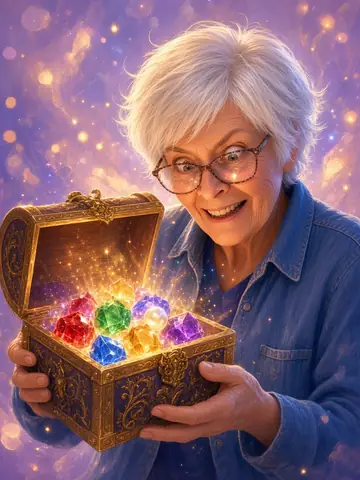
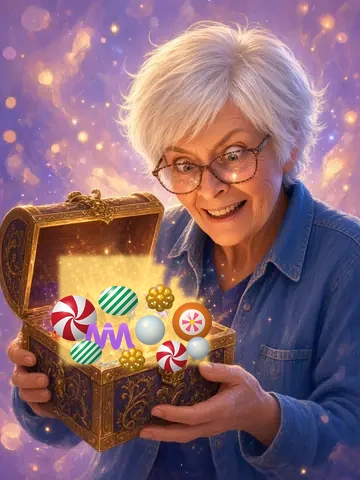
Refresh Candy Quest with hard candies
Replace the Test Arcade copy with the latest review head. The pieces are hard candies, and the save key stays pa-test-hcq_save_v2.

Changed region(s): [[0.1222, 0.5312, 0.6111, 0.7812]]

diff --git a/test-arcade/games/helenes-candy-quest/js/game.js b/test-arcade/games/helenes-candy-quest/js/game.js
@@ -1,11 +1,11 @@
-/* Helene's Candy Quest: a match-3. The pieces are the jewels from Helene's chest. */
+/* Helene's Candy Quest: a match-3. The pieces are old-fashioned hard candies from Helene's chest. */
 'use strict';
 const $=id=>document.getElementById(id);
 const LEVELS=window.CANDY_LEVELS;
 const Q=new URLSearchParams(location.search);
 const FAST=Q.get('fast')==='1';
 const SPEED=FAST?0.12:1;
-const CNAME=['Ruby Heart','Blue Drop','Green Square','Gold Diamond','Purple Point','Pearl'];
+const CNAME=['Peppermint Swirl','Striped Pillow','Raspberry Drop','Ribbon Candy','Cut-Rock Flower','Sour Ball'];
 const SK='pa-test-hcq_save_v2';
 let SV; try{SV=JSON.parse(localStorage.getItem(SK))||{}}catch(e){SV={}}
 SV=Object.assign({stars:{}, best:{}, music:1, sound:1}, SV);
@@ -15,7 +15,8 @@ function soundMuted(){return !SV.sound}
 var state='title';
 
 const cv=$('cv'), ctx=cv.getContext('2d');
-const gemsImg=new Image(); gemsImg.onload=()=>{if(B){draw(); kick()}}; gemsImg.src='art/gems.webp';
+const candyImg=new Image(); candyImg.onload=()=>{if(B){draw(); kick()}}; candyImg.src='art/candies.webp';
+const SRC=160;
 let playId=0, G=null, B=null, busy=false, sel=null, hint=null, cursor={r:3,c:3,on:false};
 let CELL=48, boardPx=384, dpr=1, camShake=0;
 const dying=[], tweens=[], floaters=[];
@@ -197,22 +198,19 @@ function round(x,y,w,h,r){ctx.beginPath(); ctx.moveTo(x+r,y); ctx.arcTo(x+w,y,x+
 function strokeRound(x,y,w,h,r){round(x,y,w,h,r); ctx.stroke()}
 function drawGem(g, c){
   const sc=g.sc==null?1:g.sc, al=g.al==null?1:g.al;
-  if(sc<0.02||al<0.02||!gemsImg.complete||!gemsImg.naturalWidth) return;
-  const idx=g.s==='x'?7:(g.c>=0?g.c:0);
-  const x=(g.x+0.5)*c, y=(g.y+0.5)*c, d=c*0.9*sc;
+  if(sc<0.02||al<0.02||!candyImg.complete||!candyImg.naturalWidth) return;
+  let col=g.c>=0?g.c:0, row=0, rot=0;
+  if(g.s==='x'){col=7; row=0;}
+  else if(g.s==='h'){row=1;}
+  else if(g.s==='v'){row=1; rot=Math.PI/2;}
+  else if(g.s==='b'){row=2;}
+  const x=(g.x+0.5)*c, y=(g.y+0.5)*c, d=c*0.92*sc;
+  ctx.save();
   ctx.globalAlpha=al;
-  ctx.drawImage(gemsImg, idx*112, 0, 112, 112, x-d/2, y-d/2, d, d);
-  if(g.s==='h'||g.s==='v'){
-    ctx.strokeStyle='rgba(255,255,255,.95)'; ctx.lineWidth=Math.max(2, c*0.06);
-    ctx.beginPath();
-    if(g.s==='h'){ctx.moveTo(x-d*0.28,y); ctx.lineTo(x+d*0.28,y)}
-    else {ctx.moveTo(x,y-d*0.28); ctx.lineTo(x,y+d*0.28)}
-    ctx.stroke();
-  }else if(g.s==='b'){
-    ctx.strokeStyle='rgba(255,220,90,.95)'; ctx.lineWidth=Math.max(2, c*0.07);
-    ctx.beginPath(); ctx.arc(x,y,d*0.42,0,6.3); ctx.stroke();
-  }
-  ctx.globalAlpha=1;
+  ctx.translate(x, y);
+  if(rot) ctx.rotate(rot);
+  ctx.drawImage(candyImg, col*SRC, row*SRC, SRC, SRC, -d/2, -d/2, d, d);
+  ctx.restore();
 }
 function floater(x,y,t,col){floaters.push({x,y,t,col,life:0,max:800}); kick()}
 
@@ -398,7 +396,7 @@ function howTo(back){
   card('<h2>How to play</h2><ul>'+
     '<li><b>Swipe</b> a candy up, down, left, or right. Or <b>tap</b> one, then tap the one beside it.</li>'+
     '<li>Line up <b>3 or more</b> of the same candy from Helene\'s chest. They clear, the ones above fall, and new candies pour in.</li>'+
-    '<li><b>Match 4</b> makes a <b>Ribbon</b>. It clears a whole row or column. An <b>L or T</b> makes a <b>Wrapper</b>, which clears a square. <b>Match 5</b> makes a <b>Chest Star</b>. Swap it to clear one color.</li>'+
+    '<li><b>Match 4</b> makes a <b>Striped Stick</b>. It clears a whole row or column. An <b>L or T</b> makes a <b>Wrapped Candy</b>, which clears a square. <b>Match 5</b> makes a <b>Candy Dish</b>. Swap it to clear one flavor.</li>'+
     '<li>Each level has a goal and a limited number of moves. Leftover moves mean more stars.</li>'+
     '<li>A swap that does not match bounces back and does not spend a move.</li>'+
     '<li>⌨ Arrows move the gold box. Space or Enter swaps. P pauses. M is sound.</li>'+

diff --git a/test-arcade/games/helenes-candy-quest/index.html b/test-arcade/games/helenes-candy-quest/index.html
@@ -38,7 +38,7 @@ body[data-mode="play"] #hud,body[data-mode="pause"] #hud{display:flex}
 #gTxt{position:relative;z-index:1;font-size:15px;font-weight:800;line-height:28px;padding:0 8px;white-space:nowrap}
 .need{display:inline-flex;align-items:center;gap:3px;margin-right:8px}
 .need.done{opacity:.7}
-.gi{display:inline-block;width:24px;height:24px;background:url(art/gems.webp) 0 0/800% 100% no-repeat;vertical-align:middle}
+.gi{display:inline-block;width:24px;height:24px;background:url(art/candies.webp) 0 0/800% 300% no-repeat;vertical-align:middle}
 #btnPause,#bHint{width:48px;height:48px;border-radius:16px;border:3px solid #fff;background:#6a2a98;color:#fff;font-size:20px;flex:0 0 auto}
 #bubble{display:none;position:absolute;z-index:4;left:12px;right:12px;bottom:calc(8px + env(safe-area-inset-bottom));margin:0 auto;max-width:420px;padding:8px 12px;border-radius:16px;background:#fffaf0;border:3px solid var(--gold);color:#4a1767;font-weight:800;font-size:18px;text-align:center;pointer-events:none}
 body.land #bubble{left:auto;right:12px;width:min(320px,34vw);bottom:12px}
@@ -96,7 +96,7 @@ body.land #hud{flex-direction:column;align-items:stretch}
 <div id="bg"></div>
 <div id="boardWrap"><canvas id="cv" width="320" height="320" aria-label="Candy board. Swipe to swap two candies."></canvas></div>
 <header id="hud">
-  <img id="host" src="art/helene.webp" alt="Helene holding her treasure chest full of colorful candies">
+  <img id="host" src="art/helene.webp" alt="Helene holding her chest overflowing with old-fashioned hard candies">
   <div id="hudMain">
     <div id="lvlName">Level 1</div>
     <div class="stats">
@@ -111,7 +111,7 @@ body.land #hud{flex-direction:column;align-items:stretch}
 <p id="bubble" role="status"></p>
 <section id="title" class="scr">
   <div class="panel">
-    <img class="hero" src="art/helene.webp" alt="Helene, smiling, holding a chest of red, blue, green, gold, and purple candies">
+    <img class="hero" src="art/helene.webp" alt="Helene, smiling, holding a chest overflowing with peppermints, pillows, ribbons, and sour balls">
     <h1>Helene's<br>Candy Quest</h1>
     <p class="tag">Match the candies from her chest.</p>
     <button id="bPlay" class="btn gold" type="button"><span>▶ PLAY</span><small id="bPlaySub">Chest Opening</small></button>
@@ -140,13 +140,13 @@ body.land #hud{flex-direction:column;align-items:stretch}
 <script>
 window.PALB_CONFIG={backend:'firestore', firestore:{projectId:'peters-arcade-3ecb5', apiKey:'AIzaSyDF1az3jKEZFcT7FP5j1FzjslDxMGL2VmE'}};
 </script>
-<script src="js/logic.js?v=2"></script>
-<script src="js/levels.js?v=2"></script>
-<script src="js/audio.js?v=2"></script>
-<script src="js/game.js?v=2"></script>
-<script src="js/gamepad.js?v=2"></script>
-<script src="js/pad.js?v=2"></script>
-<script src="js/palb.js?v=2"></script>
+<script src="js/logic.js?v=3"></script>
+<script src="js/levels.js?v=3"></script>
+<script src="js/audio.js?v=3"></script>
+<script src="js/game.js?v=3"></script>
+<script src="js/gamepad.js?v=3"></script>
+<script src="js/pad.js?v=3"></script>
+<script src="js/palb.js?v=3"></script>
 <script>
 PALB.init({
   game:'helenes-candy-quest',

diff --git a/test-arcade/games/helenes-candy-quest/js/logic.js b/test-arcade/games/helenes-candy-quest/js/logic.js
@@ -1,5 +1,5 @@
 /* ===== Helene's Treasure Chest: rules engine (pure, no drawing) ===== */
-var N=8;/* board size, visible to the game page */let NC=6,GID=1,SPC=0;/* SPC = chance a falling-in gem arrives as a Line gem (Classic/Zen only) */
+var N=8;/* board size, visible to the game page */let NC=6,GID=1,SPC=0;/* SPC = chance a falling candy arrives already a striped stick */
 function K(r,c){return r*N+c}function KR(k){return Math.floor(k/N)}function KC(k){return k%N}
 function setNC(n){NC=n}function setSPC(p){SPC=p}
 function rndColor(){return Math.floor(Math.random()*NC)}
@@ -26,7 +26,7 @@ function moveValid(B,a,b){const A=B[a.r][a.c],Bb=B[b.r][b.c];if(!A||!Bb)return f
 function allMoves(B){const m=[];for(let r=0;r<N;r++)for(let c=0;c<N;c++){if(c<N-1&&moveValid(B,{r,c},{r,c:c+1}))m.push([{r,c},{r,c:c+1}]);if(r<N-1&&moveValid(B,{r,c},{r:r+1,c}))m.push([{r,c},{r:r+1,c}])}return m}
 function findMove(B){const m=allMoves(B);return m.length?m[Math.floor(Math.random()*m.length)]:null}
 function mostCommon(B,skip){const n=new Array(NC).fill(0);for(let r=0;r<N;r++)for(let c=0;c<N;c++){const g=B[r][c];if(g&&g.c>=0&&!(skip&&skip.has(K(r,c))))n[g.c]++}let b=0;for(let i=1;i<NC;i++)if(n[i]>n[b])b=i;return b}
-/* specials: h = clears its row, v = clears its column, b = 3x3 burst, x = Treasure Star (clears every gem of one colour) */
+/* specials: h/v = striped stick (row or column), b = wrapped candy (3x3), x = candy dish (one flavor) */
 function expand(B,clear,forced){const fx=[],done=new Set(),q=[...clear];
  while(q.length){const k=q.shift();if(done.has(k))continue;done.add(k);const r=KR(k),c=KC(k),g=B[r][c];if(!g||!g.s||g.used)continue;g.used=true;const add=[];
   if(g.s==='h'){for(let x=0;x<N;x++)add.push(K(r,x));fx.push({t:'h',r,c,col:g.c})}
@@ -57,7 +57,7 @@ function applyGravity(B){const moves=[];for(let c=0;c<N;c++){let w=N-1;for(let r
 function shuffleBoard(B){const all=[];for(let r=0;r<N;r++)for(let c=0;c<N;c++)all.push(B[r][c]);
  for(let t=0;t<300;t++){for(let i=all.length-1;i>0;i--){const j=Math.floor(Math.random()*(i+1));[all[i],all[j]]=[all[j],all[i]]}
   for(let i=0;i<all.length;i++)B[KR(i)][KC(i)]=all[i];if(boardOK(B))return true}
- for(let r=0;r<N;r++)for(let c=0;c<N;c++)if(!B[r][c].s)B[r][c].c=rndColor();/* fallback: recolour plain gems */
+ for(let r=0;r<N;r++)for(let c=0;c<N;c++)if(!B[r][c].s)B[r][c].c=rndColor();/* fallback: recolour plain candies */
  for(let t=0;t<300&&!boardOK(B);t++){const r=Math.floor(Math.random()*N),c=Math.floor(Math.random()*N);if(!B[r][c].s)B[r][c].c=rndColor()}return boardOK(B)}
 function serial(B){return B.map(row=>row.map(g=>[g.c,g.s||0]))}
 function unserial(S){return S.map((row,r)=>row.map((v,c)=>{const g=mk(v[0],v[1]||0);g.x=c;g.y=r;return g}))}

diff --git a/test-arcade/games/helenes-candy-quest/sw.js b/test-arcade/games/helenes-candy-quest/sw.js
@@ -1,7 +1,7 @@
 /* test-arcade: cache name starts with pa-test- and only those caches are deleted. Requests outside this folder are not intercepted. */
 /* auto-update: HTML/JS/CSS/JSON always revalidated with the server (no stale copies); cache is the offline fallback */
 const __NC=r=>{try{const u=new URL(r.url);return u.origin==location.origin&&(r.mode=='navigate'||/(\/|\.html?|\.m?js|\.css|\.json)$/.test(u.pathname))?{cache:'no-cache'}:{}}catch(e){return {}}};
-const P='pa-test-helenes-candy-quest-',V=P+'v2',FILES=['./','index.html','manifest.json','icon-192.png','icon-512.png','cover.png','js/logic.js?v=2','js/levels.js?v=2','js/audio.js?v=2','js/game.js?v=2','js/gamepad.js?v=2','js/pad.js?v=2','js/palb.js?v=2','art/gems.webp','art/helene-face.png','art/helene.jpg','art/helene.webp','art/face.webp'];
+const P='pa-test-helenes-candy-quest-',V=P+'v3',FILES=['./','index.html','manifest.json','icon-192.png','icon-512.png','cover.png','js/logic.js?v=3','js/levels.js?v=3','js/audio.js?v=3','js/game.js?v=3','js/gamepad.js?v=3','js/pad.js?v=3','js/palb.js?v=3','art/candies.webp','art/helene-face.png','art/helene.jpg','art/helene.webp','art/face.webp'];
 self.addEventListener('install',e=>{e.waitUntil(caches.open(V).then(c=>c.addAll(FILES)));self.skipWaiting()});
 self.addEventListener('activate',e=>{e.waitUntil(caches.keys().then(k=>Promise.all(k.filter(n=>n!=V&&n.startsWith(P)).map(n=>caches.delete(n)))).then(()=>self.clients.claim()))});
 self.addEventListener('fetch',e=>{if(!new URL(e.request.url).href.startsWith(self.registration.scope))return;if(e.request.method!='GET'||new URL(e.request.url).origin!==location.origin)return;e.respondWith(fetch(e.request,__NC(e.request)).then(r=>{if(r.ok){const cp=r.clone();caches.open(V).then(c=>c.put(e.request,cp))}return r}).catch(()=>caches.open(V).then(c=>c.match(e.request,{ignoreSearch:true}).then(r=>r||(e.request.mode=='navigate'?c.match('./'):undefined)))))});

diff --git a/test-arcade/games/helenes-candy-quest/js/levels.js b/test-arcade/games/helenes-candy-quest/js/levels.js
@@ -1,18 +1,18 @@
-/* 18 match-3 lands. Pieces are the jewels from Helene's chest.
+/* 18 match-3 lands. Pieces are old-fashioned hard candies.
    Goals get bigger and moves get tighter as the number climbs. */
 (function(root){
 'use strict';
 const NAMES = [
-  'Chest Opening','Ruby Hearts','Blue Drops','Garden Greens','Golden Squares',
-  'Purple Points','Pearl Shine','Sweet Mix','Ribbon Lesson','Two Colors',
-  'Starlight','Deep Chest','Color Shower',"Helene's Pick",'Wrapper Day',
-  'Busy Board','Almost Full','The Crown Chest'
+  'Candy Dish','Peppermint Swirls','Pillow Mints','Raspberry Drops','Cut Rock',
+  'Ribbon Twists','Sour Balls','Sweet Mix','Striped Sticks','Two Flavors',
+  'Candy Dish Bomb','Deep in the Tin','Color Shower',"Helene's Pick",'Wrapped Sweets',
+  'Busy Dish','Almost Full','The Full Tin'
 ];
 const INTRO = [
   'Swipe two candies that touch. Make a line of 3 or more!',
-  'Fill the score. Match 4 for a Ribbon, 5 for a Chest Star.',
-  'Gather the candies shown up top. They fall from my chest.',
-  'An L or a T makes a Wrapper. It clears a little square.',
+  'Fill the dish. Match 4 for a Striped Stick, 5 for a Candy Dish.',
+  'Gather the candies shown up top. They pour from my chest.',
+  'An L or a T makes a Wrapped Candy. It clears a little square.',
   'Take your time. Invalid swaps bounce back and cost nothing.'
 ];
 function make(){

diff --git a/test-arcade/games/helenes-candy-quest/README.md b/test-arcade/games/helenes-candy-quest/README.md
@@ -1,9 +1,11 @@
 # Helene's Candy Quest
 
-A match-3 beside [Helene's Treasure Chest](https://ploug76.github.io/helenes-treasure-chest/) and [Volume 2](https://ploug76.github.io/helenes-treasure-chest-vol-2/). Those games are not changed.
+A match-3 beside Helene's Treasure Chest and Volume 2. Those games are not changed.
 
-The pieces are the same jewels Helene holds in her chest. Swipe or tap to swap neighbors. Lines of 3 or more clear, candies fall, and cascades count. Match 4 makes a Ribbon, an L or T makes a Wrapper, and match 5 makes a Chest Star.
+The pieces are old-fashioned hard candies from Helene's chest: a red-and-white peppermint swirl, a green striped pillow, a yellow raspberry drop, a purple ribbon, an orange cut-rock flower, and a blue sour ball.
 
-18 levels, with a goal and a move limit on each. Stars and best scores stay on this device (`hcq_save_v2`). A finished quest can post to the shared leaderboard (`helenes-candy-quest__quest`).
+Swipe or tap to swap neighbors. Lines of 3 or more clear. Match 4 makes a Striped Stick, an L or T makes a Wrapped Candy, and match 5 makes a Candy Dish.
+
+18 levels, each with a goal and a move limit. Stars and best scores stay on this device (`hcq_save_v2`). A finished quest can post to the shared leaderboard (`helenes-candy-quest__quest`).
 
 Open `index.html`. On a phone, swipe the board. Arrows and Space work on a keyboard.
